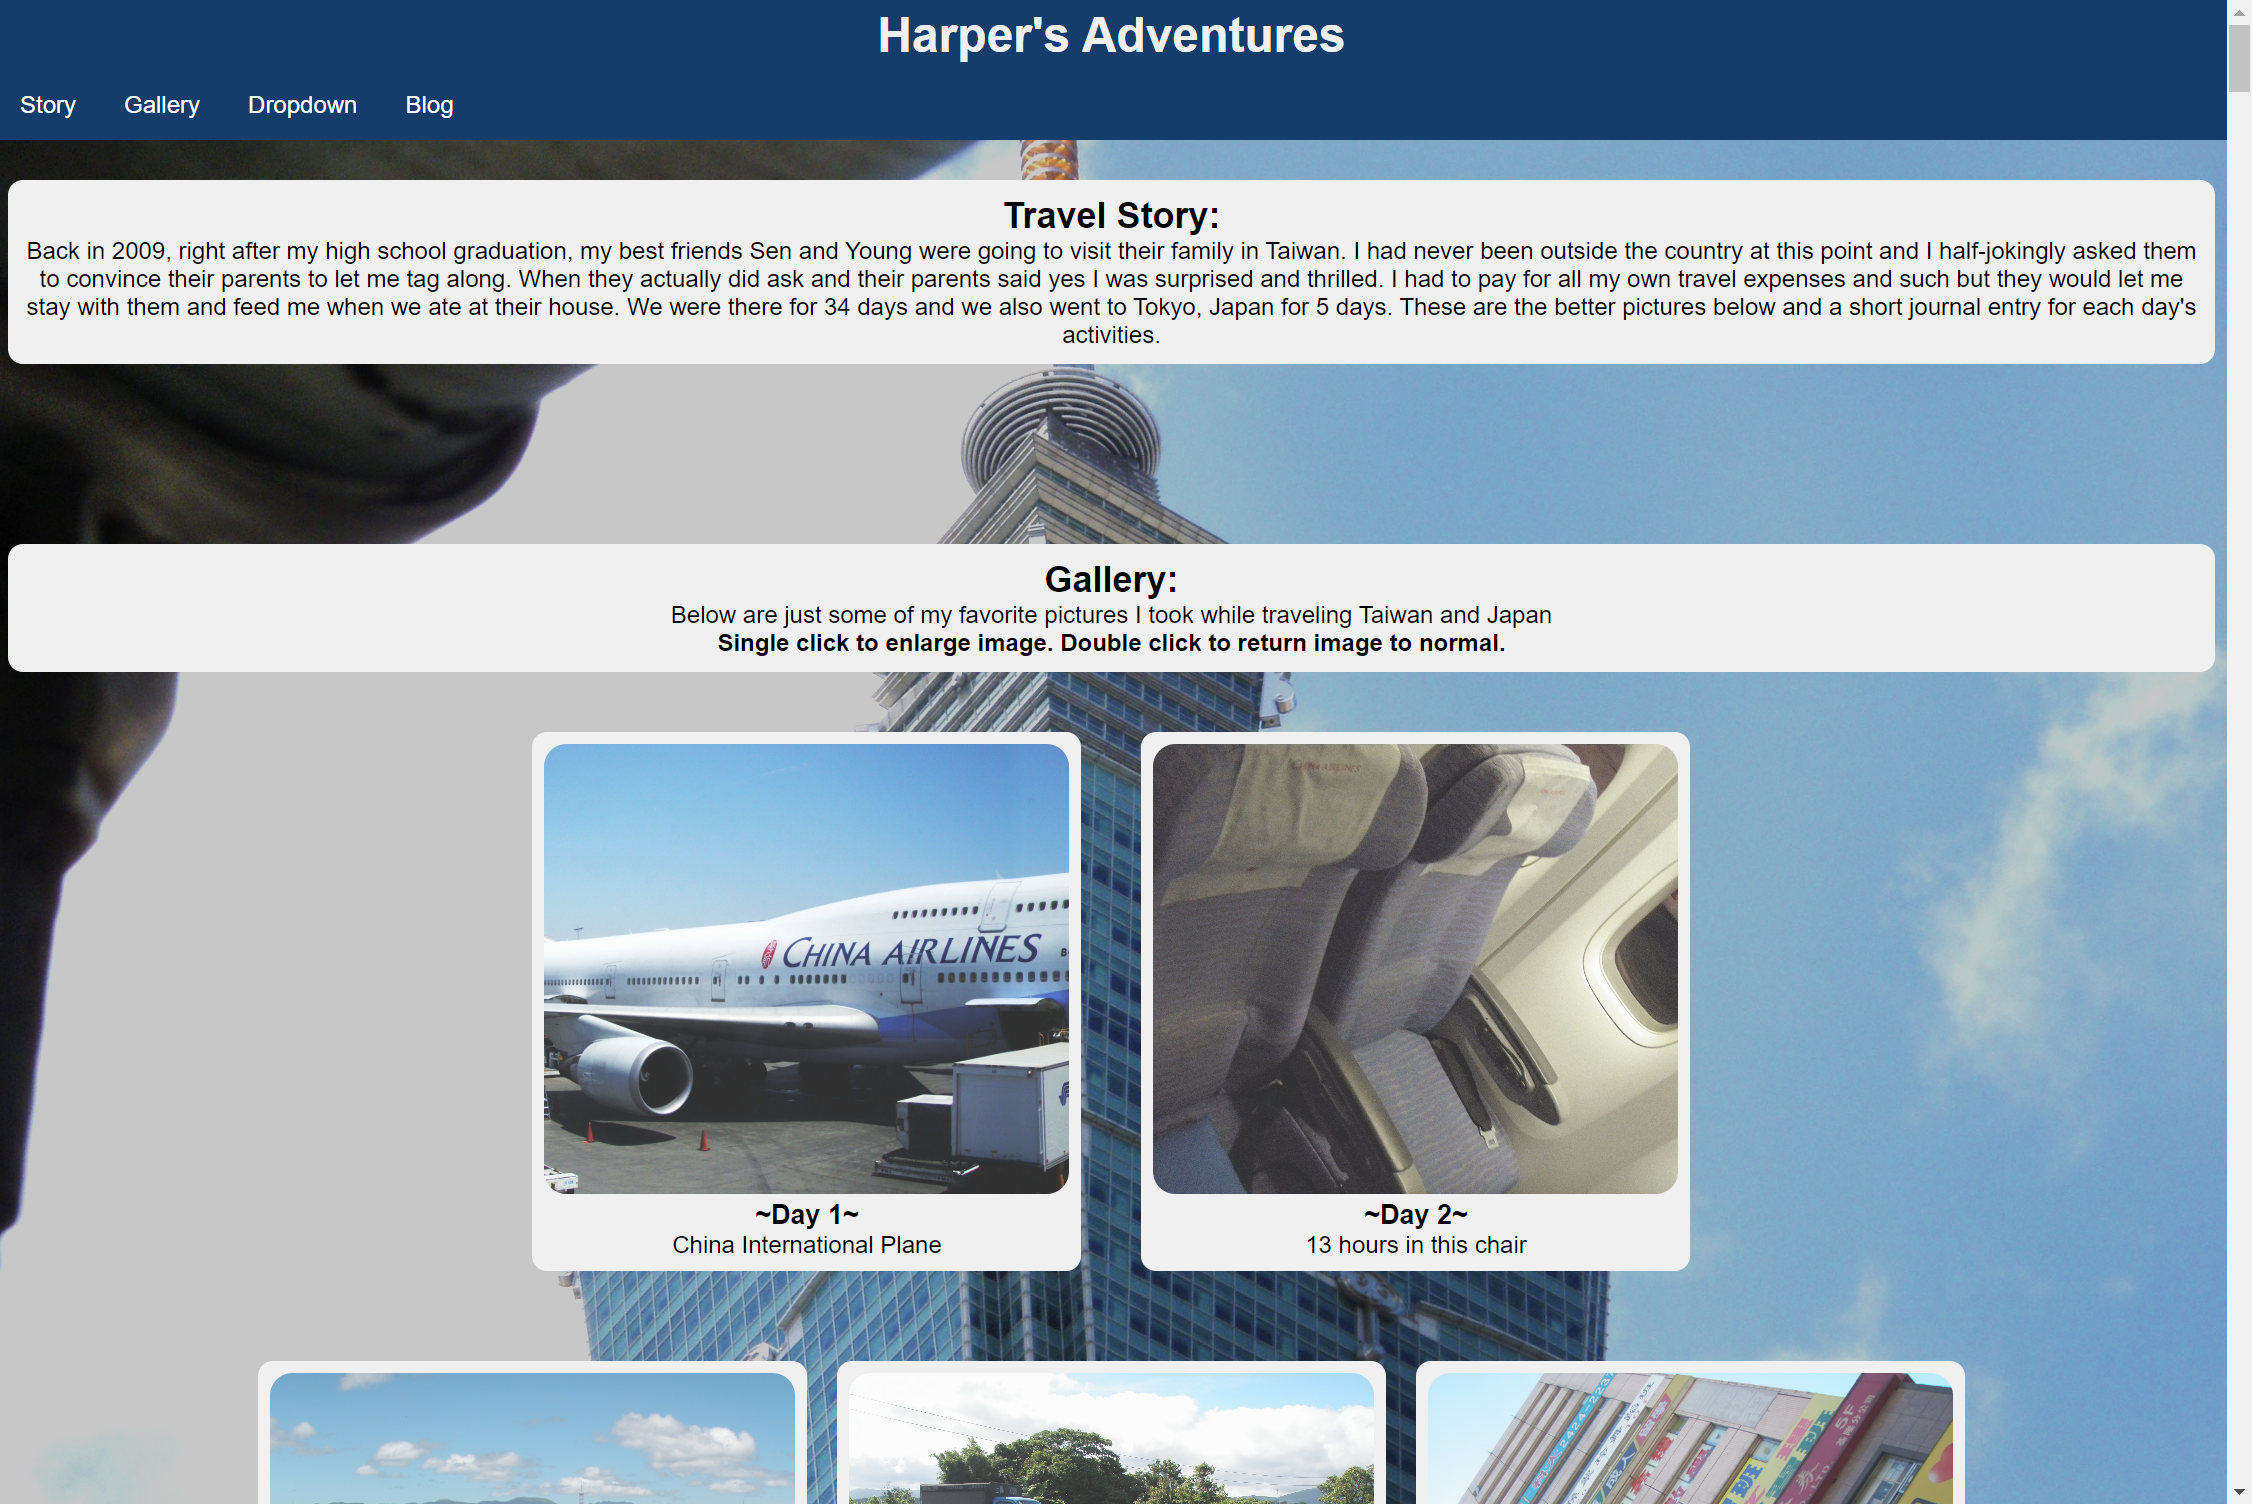
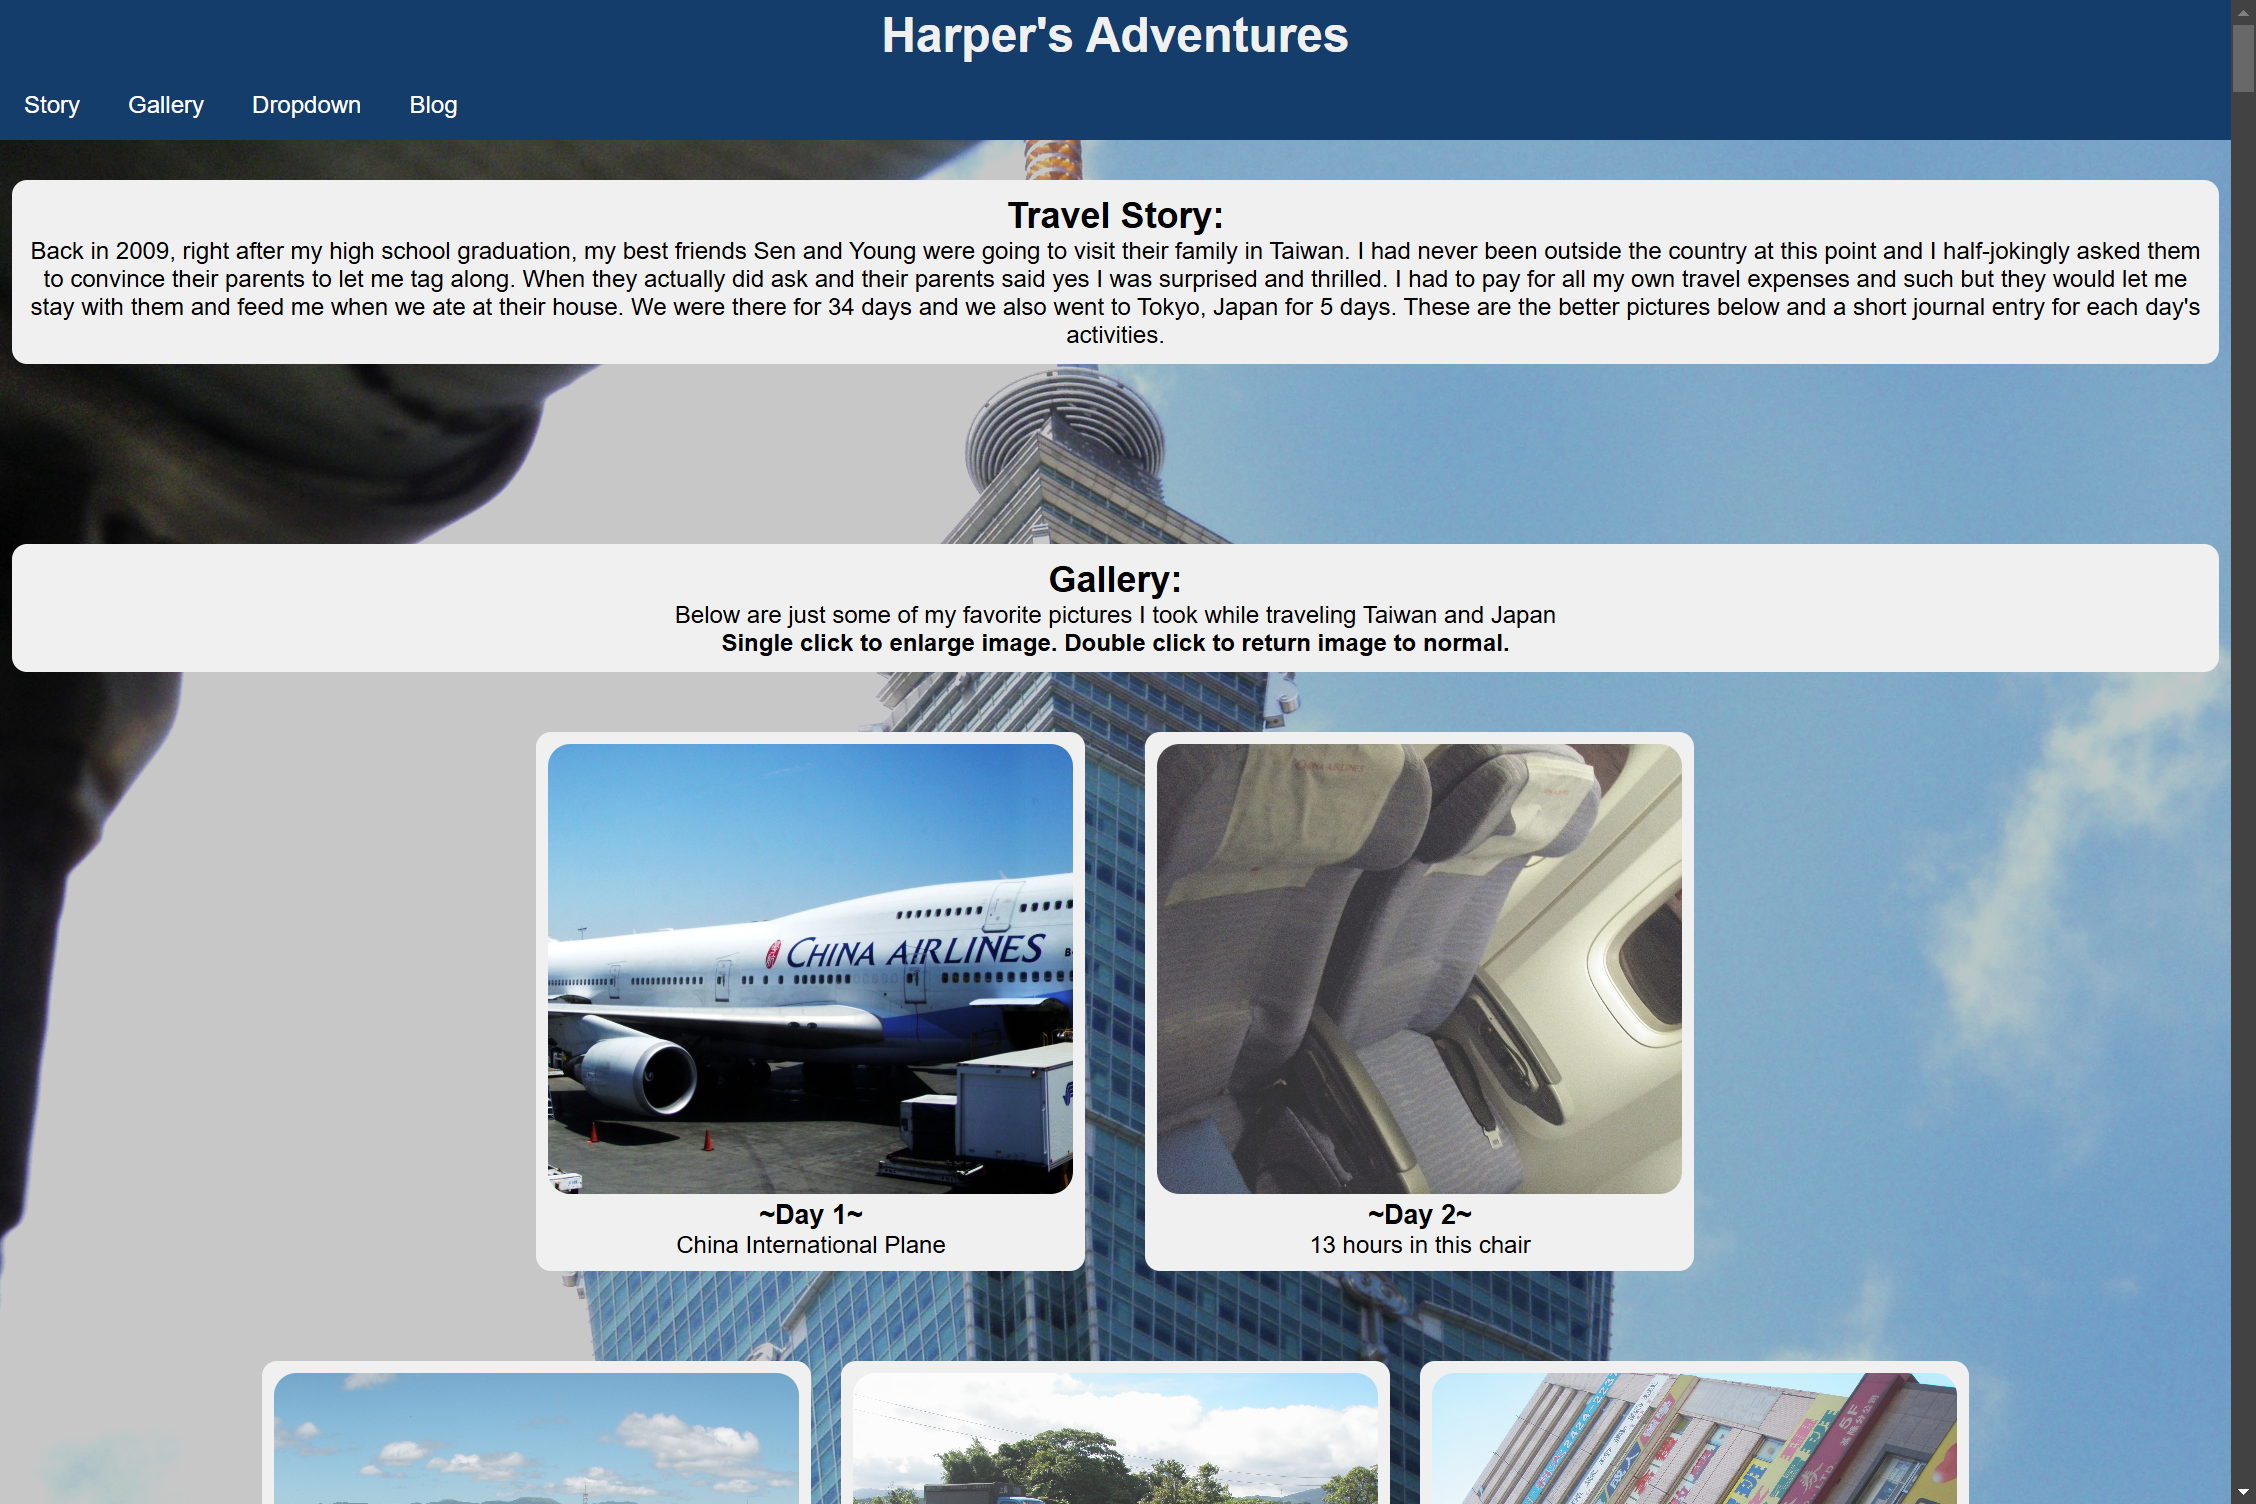
changed thumbnail and added more images to harper's adventures gallery

diff --git a/script.js b/script.js
@@ -23,7 +23,7 @@ const data = [
         thumbnail: "Pictures/Harper's Adventures/Harper's Adventures.png",
         title: "Harper's Adventures Travel Blog",
         date: "Jul 27, 2023",
-        images: ["Pictures/Harper's Adventures/Harper's Adventures.png"],
+        images: ["Pictures/Harper's Adventures/Harper's Adventures.png", "Pictures/Harper's Adventures/Harper's Adventures 1.png", "Pictures/Harper's Adventures/Harper's Adventures 2.png", "Pictures/Harper's Adventures/Harper's Adventures 3.png", "Pictures/Harper's Adventures/Harper's Adventures 4.png", "Pictures/Harper's Adventures/Harper's Adventures 5.png", "Pictures/Harper's Adventures/Harper's Adventures 6.png", "Pictures/Harper's Adventures/Harper's Adventures 7.png", "Pictures/Harper's Adventures/Harper's Adventures 8.png"],
         code: "https://github.com/ChadHarper811/Harpers-Adventures"
     },
     {
